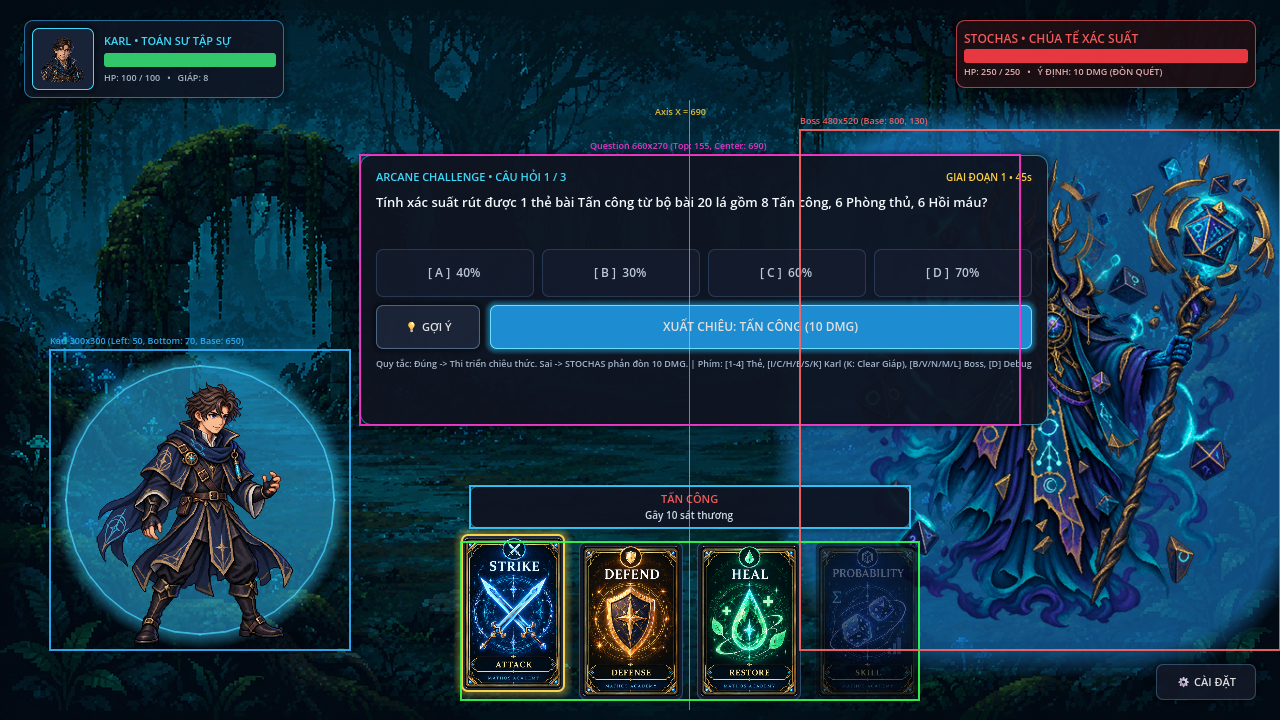
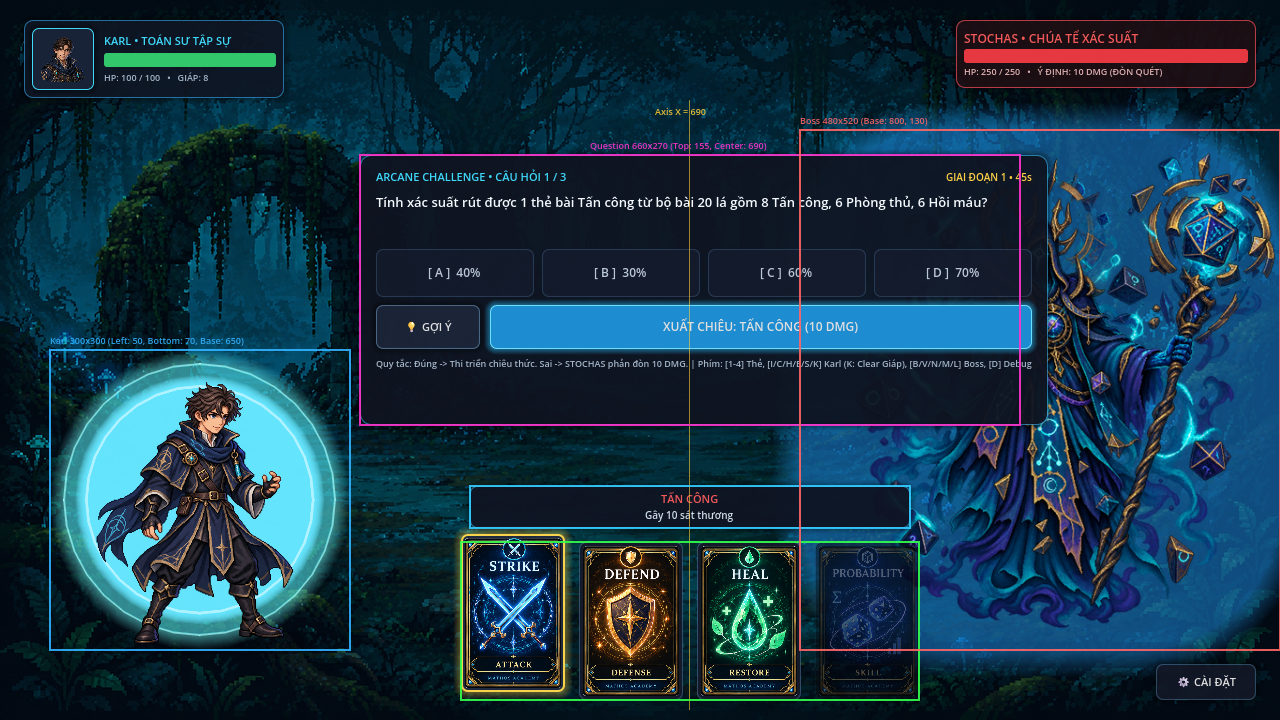
feat(lab): implement persistent shield break transition and VFX [MATHOS-SHIELD-BREAK-LAB-227L]

Changed region(s): [[0.0312, 0.4889, 0.2812, 0.8861], [0.125, 0.7028, 0.1562, 0.7333]]

diff --git a/Agent recovery/Agent3.md b/Agent recovery/Agent3.md
@@ -3,45 +3,35 @@
 > Canonical recovery note for Agent3. This file must be updated every time Agent3 receives a prompt, and updated again before sending a report if state changed.
 
 ## 1. CURRENT TASK
-- TASK_ID: MATHOS-PERSISTENT-SHIELD-LAB-226L
-- TITLE: Persistent shield-state visual fix
-- FROM: User / LAB Combat State
-- PRIORITY: P0 / LAB COMBAT STATE
-- BASE: 96765416e464bea68678e8e37d45214aad07c305
+- TASK_ID: MATHOS-SHIELD-BREAK-LAB-227L
+- TITLE: Persistent shield break transition / VFX
+- FROM: User / LAB Combat VFX
+- PRIORITY: P0 / LAB COMBAT VFX
+- BASE: 6593cc04d2f02f1b7a971f8120ea521324822dbf
 - STATUS: DONE
-- PROMPT_RECEIVED_AT: 2026-09-13T09:05:00+07:00
-- UPDATED_AT: 2026-09-13T09:11:30+07:00
+- PROMPT_RECEIVED_AT: 2026-09-13T09:26:00+07:00
+- UPDATED_AT: 2026-09-13T12:07:00+07:00
 
 ## 2. WORKSPACE / GIT
 - PROJECT: Mathos
 - WORKTREE: D:\Mathos_Worktrees\MATHOS-STORY-PARITY-FIX-185
 - BRANCH: task/mathos-story-parity-fix-185
-- START_HEAD: 96765416e464bea68678e8e37d45214aad07c305
-- CURRENT_HEAD: 888d239c05e84340403e79ca3b7982ce15bf0dcc
-- FINAL_HEAD: 888d239c05e84340403e79ca3b7982ce15bf0dcc
-- CANONICAL_BASE: 96765416e464bea68678e8e37d45214aad07c305
+- START_HEAD: 6593cc04d2f02f1b7a971f8120ea521324822dbf
+- CURRENT_HEAD: 992cd369d3f0df12fd1b4d540733ac8b8e57437b
+- FINAL_HEAD: 992cd369d3f0df12fd1b4d540733ac8b8e57437b
+- CANONICAL_BASE: 6593cc04d2f02f1b7a971f8120ea521324822dbf
 - PRODUCTION_SOURCE_CHANGED: NO (0 production files modified)
 
 ## 3. EXACT PROMPT / INTENT SUMMARY
 - Intent:
-  - Implement native Godot animations and state feedback for the STOCHAS boss in the visual LAB (`res://labs/stochas_combat_ui/`) using Tweens, modulation, rotation, scale, and native particle/aura overlays:
-    1. IDLE / STAND: Subtle vertical floating (4-8px), subtle breathing scale (0.5-1.5%), cyan/blue aura pulse, loop duration 2.5-4.0s. Boss stays stable and threatening (no floating UI feel).
-    2. CAST / ATTACK: Anticipation lean back + aura intensify, forward lunge / scale impulse, cyan/purple flash at hand/staff, triggers -10 HP and Karl HIT state in preview, returns to IDLE (~0.7-1.2s total).
-    3. HIT / DAMAGED: Recoil horizontal displacement (8-16px), red/white flash, slight rotational kick (1-2 deg), floating "-10 HP", duration ~0.35-0.65s, returns smoothly to IDLE.
-    4. STUN: Freeze/pause idle, short backward stagger, cyan/purple rune ring / stars around head, desaturate/dim, floating "CHOÁNG", duration ~1.0-1.8s, resumes IDLE.
-    5. ENRAGED / LOW-HP PREVIEW: Optional toggleable state with crimson/magenta aura pulse, faster breathing, HUD border intensity increase, no layout shift.
-  - State priority: STUN > HIT > CAST > ENRAGED > IDLE (no tween conflicts; pause idle during transient states).
-  - LAB hotkeys: B (Boss IDLE), V (Boss CAST/ATTACK), N (Boss HIT), M (Boss STUN), L (Boss ENRAGED toggle). Preserve Karl keys (I, C, H, E, S, D).
-  - Combat preview wiring:
-    - STRIKE executed: Karl CAST -> STOCHAS HIT -> STOCHAS floating -10 HP.
-    - Wrong answer: STOCHAS CAST -> Karl HIT -> Karl floating -10 HP.
-    - DEFEND: Karl SHIELD (+8 GIÁP).
-    - HEAL: Karl HEAL (+15 HP).
+  - Implement native Godot shield-break VFX transition (~0.60s sequence: bright flash impulse -> distortion contraction -> 8 radial rune fragment burst -> shockwave ring -> floating text "VỠ KHIÊN!" -> persistent barrier clean fade out -> HUD updated to "GIÁP: 0") when shield transitions from current_shield > 0 to current_shield <= 0.
+  - Hotkey [K] when current_shield > 0 triggers break_shield(). Hotkey [K] when current_shield == 0 causes zero false break / no erroneous effect.
+  - Centralized shield mutation flow set_shield(new_val) and break_shield().
   - STRICTLY PROHIBITED:
-    - DO NOT generate, edit, or crop any images (no new boss PNGs; use existing `stochas_boss.png`).
+    - DO NOT generate, edit, or crop any images (no PNG edits).
     - DO NOT modify production files (`src/ui/combat/`, `src/ui/question/`, `src/ui/stage/`).
     - DO NOT modify approved layout (1:1 bg framing, question 660x270 at 690/155, Karl 300x300 at 50/70 base 650, cards 104x158 at 690, hover panel, HUDs, settings).
-    - DO NOT integrate Adaptive AI.
+    - DO NOT add damage math.
     - DO NOT push.
 
 ## 4. LAB ARTIFACTS & FILES
@@ -51,52 +41,26 @@
   - `res://labs/stochas_combat_ui/stochas_combat_ui_lab_clean.png`
   - `res://labs/stochas_combat_ui/stochas_combat_ui_lab_debug.png`
 
-## 5. STOCHAS STATE MAPPING & ANIMATION PARAMETERS
-- Base Position: Vector2(800.0, 130.0) (Right: 0px, Bottom: 70px, 480x520px)
-- Ground Shadow: Size 320x26 at Vector2(880, 642)
-- Arcane Aura: Size 480x520 at Vector2(800, 130) with soft border glow (cyan default, crimson in enraged)
-- VFX Container: Size 480x520 at Vector2(800, 130)
-- States:
-  1. IDLE / STAND:
-     - Loop duration: 3.2s (1.6s up, 1.6s down)
-     - Vertical floating: 6.0 px (SINE ease-in-out)
-     - Breathing scale: Vector2(1.008, 0.995)
-     - Aura pulse: modulate alpha 0.40 -> 0.85
-  2. CAST / ATTACK:
-     - Total duration: 0.90s
-     - Anticipation (0.30s): lean back (+14px X, -4px Y), tilt +1.5 deg, staff aura intensify, casting spark at hand/staff (85, 175)
-     - Attack Release (0.18s): forward lunge (-28px X), scale impulse 1.04, tilt -1.2 deg, projectile fires towards Karl, triggers Karl HIT & -10 HP
-     - Hold & Settle (0.42s): return smoothly to base (800, 130), rotation 0, scale 1.0, modulate white, resumes IDLE
-  3. HIT / DAMAGED:
-     - Total duration: 0.42s
-     - Recoil backward: +16px X, -2px Y, rotation -1.5 deg, instant red/white flash modulate (2.2, 0.6, 0.6, 1.0)
-     - Floating feedback: -10 HP (accent red)
-     - Recovery: settle to base (800, 130), rotation 0, scale 1.0, modulate white, resumes IDLE
-  4. STUN:
-     - Total duration: 1.40s
-     - Idle float paused
-     - Stagger: +10px X, +6px Y, rotation +1.2 deg, dim/desaturate modulate (0.65, 0.70, 0.85, 0.90)
-     - Overlay: 3 golden head runes/stars (✦) above head at (240, 60)
-     - Dizzy sway: oscillating rotation ±1.2 deg (3 half-waves = 0.90s)
-     - Floating text: CHOÁNG! (accent gold)
-     - Recovery: runes fade out, returns to base, resumes IDLE
-  5. ENRAGED / LOW-HP PREVIEW:
-     - Toggled via [L]
-     - Aura color: crimson/magenta (Color(0.75, 0.12, 0.25, 0.25)) with red glow
-     - HUD border: glowing red (Color(1.0, 0.20, 0.25, 0.95))
-     - Accelerated breathing: 1.8s loop duration (0.9s up, 0.9s down), 7.5px float, 1.2% breathing
-- State Priority: STUN > HIT > CAST > ENRAGED > IDLE (zero tween fighting, clean resume)
-- Position Drift: 0.0 px (all tweens explicitly anchor to BOSS_BASE_POS)
+## 5. SHIELD BREAK STATE LOGIC & VFX TIMING CHAIN
+- Transition Trigger: `set_shield(new_val)` checks if `old_val > 0` and `clamped_val <= 0`. If true, invokes `break_shield()`.
+- Sequence (~0.60s Total):
+  1. Phase 1 (0.12s): Bright white/cyan flash (modulate Color(2.5, 2.5, 3.0, 1.0)) & scale expansion (1.0 -> 1.08). Spawns golden floating text "VỠ KHIÊN!".
+  2. Phase 2 (0.24s): Distortion contraction (scale 1.08 -> 0.82) + spawns 8 radial cyan/white glowing panel shards with random rotation & velocity + spawns expanding shockwave ring (scale 0.85 -> 1.25).
+  3. Phase 3 (0.24s): Complete fade out (modulate alpha -> 0.0).
+  4. Cleanup: Barrier visibility set to false, reset scale & modulate to default. HUD updated to `GIÁP: 0`.
+- Zero False Break: Calling `break_shield()` when `current_shield == 0` exits immediately without triggering false VFX or UI flicker.
 
-## 6. ACCEPTANCE GATES STATUS (MATHOS-PERSISTENT-SHIELD-LAB-226L)
+## 6. ACCEPTANCE GATES STATUS (MATHOS-SHIELD-BREAK-LAB-227L)
 - GATE 1 (Initial state clean: shield = 0, barrier hidden, HUD reporting GIÁP: 0): PASS
-- GATE 2 (Successful DEFEND sets shield +8, plays SHIELD cast animation, activates persistent barrier): PASS
-- GATE 3 (Karl returns to IDLE sprite after 1.1s cast while persistent visual barrier remains active): PASS
-- GATE 4 (Repeated DEFEND stacks shield correctly: 8 -> 16 -> 24): PASS
-- GATE 5 (clear_shield() [K] resets shield to 0, updates HUD to GIÁP: 0, hides barrier cleanly): PASS
-- GATE 6 (Other combat cards STRIKE, HEAL, and Boss reactions remain fully functional): PASS
-- GATE 7 (Layout preserved: Question 660x270, Karl 300x300, Cards 104x158, Bg 1280x720): PASS
-- GATE 8 (Production source untouched & 0 images generated/edited): PASS (0 production files modified)
+- GATE 2 (Successful DEFEND sets shield +8 and activates persistent visual barrier): PASS
+- GATE 3 (Repeated DEFEND stacks shield (16) cleanly with no false shield break): PASS
+- GATE 4 (Shield transition from >0 to 0 triggers break_shield() and updates HUD to GIÁP: 0): PASS
+- GATE 5 (Redundant shield break calls while shield == 0 cause zero false breaks): PASS
+- GATE 6 (Re-enabling shield via set_shield(8) restores persistent barrier cleanly): PASS
+- GATE 7 (set_shield(0) triggers shield break transition and resets HUD): PASS
+- GATE 8 (Other combat operations STRIKE, HEAL, Boss reactions remain fully functional): PASS
+- GATE 9 (Composition preserved: Question 660x270, Karl 300x300, Cards 104x158, Bg 1280x720): PASS
+- GATE 10 (Production source untouched & 0 images generated/edited): PASS (0 production files modified)
 
 ## 7. RECENT PROMPT LOG
 ### Prompt entry 49
@@ -122,5 +86,13 @@
 - TASK_ID: MATHOS-PERSISTENT-SHIELD-LAB-226L
 - ONE_LINE_INTENT: Separate temporary SHIELD cast animation from persistent active barrier visual while current_shield > 0, update HUD shield indicator, and add clear shield hotkey [K].
 - RESULT / CURRENT_STATE: DONE (All 8 automated gates PASSED)
+
+### Prompt entry 53
+- RECEIVED_AT: 2026-09-13T09:26:00+07:00
+- TASK_ID: MATHOS-SHIELD-BREAK-LAB-227L
+- ONE_LINE_INTENT: Implement native Godot shield-break VFX transition (~0.60s bright flash, distortion contraction, 8 radial rune fragments, VỠ KHIÊN! feedback text) when current_shield transitions to 0.
+- RESULT / CURRENT_STATE: DONE (All 10 automated gates PASSED)
+
+
 
 
